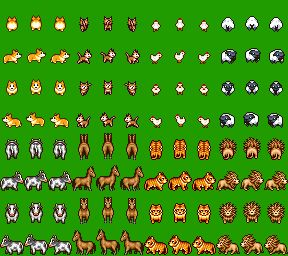
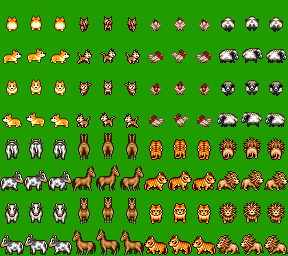
new animals

diff --git a/data/AUTHORS.md b/data/AUTHORS.md
@@ -30,148 +30,6 @@ Asset               |Year|Authors and License|Auth
 └  `Game Over.png` | 2020 | jetrotal [CC0], <br/>kou [CC-BY] (koubit_001 Font) | https://github.com/jetrotal, <br/>https://www.pentacom.jp/pentacom/bitfontmaker2/gallery/?id=265
 **📁 `Monster`**|  
 └  `Hornet.png` | 2018 | Orochii Zouveleki [CC-BY] | https://ragnarokrproject.com/
-**📁 `Music`**|  
-├  `2003Adventurers.mid` | 2022 | 魔王魂(Maoudamashii) [CC-BY] | https://maou.audio/rule/
-├  `2003Ancient City.mid` | 2022 | morusque [cc-by] | http://nurykabe.com/dump/sound/other/midi/
-├  `2003Battle with an Evil God.mid` | 2022 | 魔王魂(Maoudamashii) [CC-BY] | https://maou.audio/rule/
-├  `2003Beginning of a War.mid` | 2022 | 魔王魂(Maoudamashii) [CC-BY] | https://maou.audio/rule/
-├  `2003Casino Indulgence.mid` | 2022 | 魔王魂(Maoudamashii) [CC-BY] | https://maou.audio/rule/
-├  `2003Cathedral.mid` | 2022 | 魔王魂(Maoudamashii) [CC-BY] | https://maou.audio/rule/
-├  `2003Church.mid` | 2022 | 魔王魂(Maoudamashii) [CC-BY] | https://maou.audio/rule/
-├  `2003City Bustle.mid` | 2022 | 魔王魂(Maoudamashii) [CC-BY] | https://maou.audio/rule/
-├  `2003Colosseum.mid` | 2022 | 魔王魂(Maoudamashii) [CC-BY] | https://maou.audio/rule/
-├  `2003Creeping Darkness.mid` | 2022 | 魔王魂(Maoudamashii) [CC-BY] | https://maou.audio/rule/
-├  `2003Cyber City.mid` | 2022 | 魔王魂(Maoudamashii) [CC-BY] | https://maou.audio/rule/
-├  `2003DarkAltar.mid` | 2022 | 魔王魂(Maoudamashii) [CC-BY] | https://maou.audio/rule/
-├  `2003Deep Memory.mid` | 2022 | 魔王魂(Maoudamashii) [CC-BY] | https://maou.audio/rule/
-├  `2003Deserted Mansion.mid` | 2022 | morusque [cc-by] | http://nurykabe.com/dump/sound/other/midi/
-├  `2003Dream Forest.mid` | 2022 | morusque [cc-by] | http://nurykabe.com/dump/sound/other/midi/
-├  `2003Dream of Striking It Rich.mid` | 2022 | 魔王魂(Maoudamashii) [CC-BY] | https://maou.audio/rule/
-├  `2003Dreaminess.mid` | 2022 | 魔王魂(Maoudamashii) [CC-BY] | https://maou.audio/rule/
-├  `2003Empire.mid` | 2022 | 魔王魂(Maoudamashii) [CC-BY] | https://maou.audio/rule/
-├  `2003Exploring Ruins.mid` | 2022 | いのじゅん(junichiinoue) [CC-BY] | https://midisozai.inojun.net/
-├  `2003Fairy Forest.mid` | 2022 | いのじゅん(junichiinoue) [CC-BY] | https://midisozai.inojun.net/
-├  `2003Far Eastern Land.mid` | 2022 | 魔王魂(Maoudamashii) [CC-BY] | https://maou.audio/rule/
-├  `2003Final Battleground.mid` | 2022 | northivanastan [cc0] | https://opengameart.org/users/northivanastan
-├  `2003Free For All.mid` | 2022 | 魔王魂(Maoudamashii) [CC-BY] | https://maou.audio/rule/
-├  `2003Healing Spring.mid` | 2022 | 魔王魂(Maoudamashii) [CC-BY] | https://maou.audio/rule/
-├  `2003Hero's Return.mid` | 2022 | いのじゅん(junichiinoue) [CC-BY] | https://midisozai.inojun.net/
-├  `2003Ice Labyrinth.mid` | 2022 | 魔王魂(Maoudamashii) [CC-BY] | https://maou.audio/rule/
-├  `2003In the Eternal Flow of Time.mid` | 2022 | 魔王魂(Maoudamashii) [CC-BY] | https://maou.audio/rule/
-├  `2003Little Army's March.mid` | 2022 | いのじゅん(junichiinoue) [CC-BY] | https://midisozai.inojun.net/
-├  `2003Lonesome Journey.mid` | 2022 | morusque [cc-by] | http://nurykabe.com/dump/sound/other/midi/
-├  `2003Machine Fortress.mid` | 2022 | 魔王魂(Maoudamashii) [CC-BY] | https://maou.audio/rule/
-├  `2003Maximum Battle.mid` | 2022 | 魔王魂(Maoudamashii) [CC-BY] | https://maou.audio/rule/
-├  `2003Otherworldly Corridor.mid` | 2022 | 魔王魂(Maoudamashii) [CC-BY] | https://maou.audio/rule/
-├  `2003Palace Party.mid` | 2022 | いのじゅん(junichiinoue) [CC-BY] | https://midisozai.inojun.net/
-├  `2003Panic.mid` | 2022 | 魔王魂(Maoudamashii) [CC-BY] | https://maou.audio/rule/
-├  `2003Repeated Wars.mid` | 2022 | 魔王魂(Maoudamashii) [CC-BY] | https://maou.audio/rule/
-├  `2003Silence.mid` | 2022 | 魔王魂(Maoudamashii) [CC-BY] | https://maou.audio/rule/
-├  `2003Snow Town.mid` | 2022 | いのじゅん(junichiinoue) [CC-BY] | https://midisozai.inojun.net/
-├  `2003Sorrow.mid` | 2022 | いのじゅん(junichiinoue) [CC-BY] | https://midisozai.inojun.net/
-├  `2003Steady Breeze.mid` | 2022 | morusque [cc-by] | http://nurykabe.com/dump/sound/other/midi/
-├  `2003Subterranean Maze.mid` | 2022 | いのじゅん(junichiinoue) [CC-BY] | https://midisozai.inojun.net/
-├  `2003SunnyVillage.mid` | 2022 | いのじゅん(junichiinoue) [CC-BY] | https://midisozai.inojun.net/
-├  `2003Tavern.mid` | 2022 | 魔王魂(Maoudamashii) [CC-BY] | https://maou.audio/rule/
-├  `2003Tension.mid` | 2022 | 魔王魂(Maoudamashii) [CC-BY] | https://maou.audio/rule/
-├  `2003Village in the Valley.mid` | 2022 | いのじゅん(junichiinoue) [CC-BY] | https://midisozai.inojun.net/
-├  `2003Village of Savages.mid` | 2022 | いのじゅん(junichiinoue) [CC-BY] | https://midisozai.inojun.net/
-├  `2003Waltz of Blessings.mid` | 2022 | 魔王魂(Maoudamashii) [CC-BY] | https://maou.audio/rule/
-├  `2003Wings to the Sky.mid` | 2022 | 魔王魂(Maoudamashii) [CC-BY] | https://maou.audio/rule/
-├  `2003Young Memories.mid` | 2022 | 魔王魂(Maoudamashii) [CC-BY] | https://maou.audio/rule/
-├  `Animal.mid` | 2022 | 魔王魂(Maoudamashii) [CC-BY] | https://maou.audio/rule/
-├  `Battle 1.mid` | 2010 | Juan Manuel Nigretti [CC-BY] | https://soundcloud.com/goodgameaudio
-├  `Battle 2.mid` | 2022 | 魔王魂(Maoudamashii) [CC-BY] | https://maou.audio/rule/
-├  `Battle 3.mid` | 2022 | northivanastan [cc0] | https://opengameart.org/users/northivanastan
-├  `Black Market.mid` | 2022 | 魔王魂(Maoudamashii) [CC-BY] | https://maou.audio/rule/
-├  `Boss 1.mid` | 2022 | 魔王魂 [CC-BY] | https://maou.audio/rule/
-├  `Boss 2.mid` | 2022 | 魔王魂(Maoudamashii) [CC-BY] | https://maou.audio/rule/
-├  `Boss 3.mid` | 2022 | Someoneman [cc0] | https://github.com/Someoneman
-├  `Boss 4.mid` | 2022 | 魔王魂(Maoudamashii) [CC-BY] | https://maou.audio/rule/
-├  `Castle 1.mid` | 2010 | Juan Manuel Nigretti [CC-BY] | https://soundcloud.com/goodgameaudio
-├  `Castle 2.mid` | 2022 | 魔王魂(Maoudamashii) [CC-BY] | https://maou.audio/rule/
-├  `Castle 3.mid` | 2022 | 魔王魂(Maoudamashii) [CC-BY] | https://maou.audio/rule/
-├  `Church.mid` | 2010 | Juan Manuel Nigretti [CC-BY] | https://soundcloud.com/goodgameaudio
-├  `Defeat.mid` | 2022 | 魔王魂(Maoudamashii) [CC-BY] | https://maou.audio/rule/
-├  `Demon Lord.mid` | 2022 | 魔王魂(Maoudamashii) [CC-BY] | https://maou.audio/rule/
-├  `Dungeon 1.mid` | 2010 | Juan Manuel Nigretti [CC-BY] | https://soundcloud.com/goodgameaudio
-├  `Dungeon 2.mid` | 2022 | 魔王魂(Maoudamashii) [CC-BY] | https://maou.audio/rule/
-├  `Dungeon 3.mid` | 2022 | 魔王魂(Maoudamashii) [CC-BY] | https://maou.audio/rule/
-├  `Dungeon 4.mid` | 2022 | 魔王魂(Maoudamashii) [CC-BY] | https://maou.audio/rule/
-├  `Dungeon 5.mid` | 2022 | 魔王魂(Maoudamashii) [CC-BY] | https://maou.audio/rule/
-├  `Ending 1.mid` | 2022 | 魔王魂(Maoudamashii) [CC-BY] | https://maou.audio/rule/
-├  `Ending 2.mid` | 2010 | Juan Manuel Nigretti [CC-BY] | https://soundcloud.com/goodgameaudio
-├  `Ending 3.mid` | 2022 | 魔王魂(Maoudamashii) [CC-BY] | https://maou.audio/rule/
-├  `Exploration.mid` | 2022 | morusque [CC-BY] | http://nurykabe.com/dump/sound/other/midi/
-├  `Fairy 1.mid` | 2022 | morusque [CC-BY] | http://nurykabe.com/dump/sound/other/midi/
-├  `Fairy 2.mid` | 2022 | morusque [CC-BY] | http://nurykabe.com/dump/sound/other/midi/
-├  `Field 1.mid` | 2010 | Juan Manuel Nigretti [CC-BY] | https://soundcloud.com/goodgameaudio
-├  `Field 2.mid` | 2022 | 魔王魂(Maoudamashii) [CC-BY] | https://maou.audio/rule/
-├  `Field 3.mid` | 2022 | 魔王魂(Maoudamashii) [CC-BY] | https://maou.audio/rule/
-├  `Field 4.mid` | 2022 | 魔王魂(Maoudamashii) [CC-BY] | https://maou.audio/rule/
-├  `Game Over 1.mid` | 2010 | Juan Manuel Nigretti [CC-BY] | https://soundcloud.com/goodgameaudio
-├  `Game Over 2.mid` | 2022 | 魔王魂(Maoudamashii) [CC-BY] | https://maou.audio/rule/
-├  `Game Over 3.mid` | 2022 | 魔王魂(Maoudamashii) [CC-BY] | https://maou.audio/rule/
-├  `Ghost Town 1.mid` | 2022 | morusque [CC-BY] | http://nurykabe.com/dump/sound/other/midi/
-├  `Ghost Town 2.mid` | 2022 | morusque [CC-BY] | http://nurykabe.com/dump/sound/other/midi/
-├  `Hero 1.mid` | 2022 | 魔王魂(Maoudamashii) [CC-BY] | https://maou.audio/rule/
-├  `Hero 2.mid` | 2022 | 魔王魂(Maoudamashii) [CC-BY] | https://maou.audio/rule/
-├  `In a Pinch.mid` | 2022 | 魔王魂(Maoudamashii) [CC-BY] | https://maou.audio/rule/
-├  `J2003Horn.mid` | 2022 | 魔王魂(Maoudamashii) [CC-BY] | https://maou.audio/rule/
-├  `JDoubt.mid` | 2010 | Juan Manuel Nigretti [CC-BY] | https://soundcloud.com/goodgameaudio
-├  `JEnd of Battle 1.mid` | 2010 | Juan Manuel Nigretti [CC-BY] | https://soundcloud.com/goodgameaudio
-├  `JEnd of Battle 2.mid` | 2010 | Juan Manuel Nigretti [CC-BY] | https://soundcloud.com/goodgameaudio
-├  `JEnd of Battle 3.mid` | 2010 | Juan Manuel Nigretti [CC-BY] | https://soundcloud.com/goodgameaudio
-├  `JEnd of Battle 4.mid` | 2010 | Juan Manuel Nigretti [CC-BY] | https://soundcloud.com/goodgameaudio
-├  `JFanfare 1.mid` | 2010 | Juan Manuel Nigretti [CC-BY] | https://soundcloud.com/goodgameaudio
-├  `JFanfare 2.mid` | 2010 | Juan Manuel Nigretti [CC-BY] | https://soundcloud.com/goodgameaudio
-├  `JFanfare 3.mid` | 2010 |  Juan Manuel Nigretti [CC-BY] | https://soundcloud.com/goodgameaudio
-├  `JFanfare 4.mid` | 2010 |  Juan Manuel Nigretti [CC-BY] | https://soundcloud.com/goodgameaudio
-├  `JFanfare 5.mid` | 2010 |  Juan Manuel Nigretti [CC-BY] | https://soundcloud.com/goodgameaudio
-├  `JFanfare 6.mid` | 2010 |  Juan Manuel Nigretti [CC-BY] | https://soundcloud.com/goodgameaudio
-├  `JInn 1.mid` | 2010 |  Juan Manuel Nigretti [CC-BY] | https://soundcloud.com/goodgameaudio
-├  `JInn 2.mid` | 2010 |  Juan Manuel Nigretti [CC-BY] | https://soundcloud.com/goodgameaudio
-├  `JItem.mid` | 2010 | Juan Manuel Nigretti [CC-BY] | https://soundcloud.com/goodgameaudio
-├  `JJoke 1.mid` | 2010 |  Juan Manuel Nigretti [CC-BY] | https://soundcloud.com/goodgameaudio
-├  `JJoke 2.mid` | 2010 |  Juan Manuel Nigretti [CC-BY] | https://soundcloud.com/goodgameaudio
-├  `JMystery.mid` | 2010 |  Juan Manuel Nigretti [CC-BY] | https://soundcloud.com/goodgameaudio
-├  `Liveliness.mid` | 2022 | 魔王魂(Maoudamashii) [CC-BY] | https://maou.audio/rule/
-├  `Lively Market.mid` | 2022 | 魔王魂(Maoudamashii) [CC-BY] | https://maou.audio/rule/
-├  `Mystery 1.mid` | 2010 |  Juan Manuel Nigretti [CC-BY] | https://soundcloud.com/goodgameaudio
-├  `Mystery 2.mid` | 2022 | 魔王魂(Maoudamashii) [CC-BY] | https://maou.audio/rule/
-├  `Mystery 3.mid` | 2022 | morusque [CC-BY] | http://nurykabe.com/dump/sound/other/midi/
-├  `Opening 1.mid` | 2022 | 魔王魂(Maoudamashii) [CC-BY] | https://maou.audio/rule/
-├  `Opening 2.mid` | 2010 |  Juan Manuel Nigretti [CC-BY] | https://soundcloud.com/goodgameaudio
-├  `Opening 3.mid` | 2022 | 魔王魂(Maoudamashii) [CC-BY] | https://maou.audio/rule/
-├  `Parting 1.mid` | 2022 | morusque [CC-BY] | http://nurykabe.com/dump/sound/other/midi/
-├  `Parting 2.mid` | 2022 | 魔王魂(Maoudamashii) [CC-BY] | https://maou.audio/rule/
-├  `Repose 1.mid` | 2022 | 魔王魂(Maoudamashii) [CC-BY] | https://maou.audio/rule/
-├  `Repose 2.mid` | 2022 | 魔王魂(Maoudamashii) [CC-BY] | https://maou.audio/rule/
-├  `Repose 3.mid` | 2022 | 魔王魂(Maoudamashii) [CC-BY] | https://maou.audio/rule/
-├  `Secret Treasure.mid` | 2022 | 魔王魂(Maoudamashii) [CC-BY] | https://maou.audio/rule/
-├  `Ship 1.mid` | 2022 | 魔王魂(Maoudamashii) [CC-BY] | https://maou.audio/rule/
-├  `Ship 2.mid` | 2022 | 魔王魂(Maoudamashii) [CC-BY] | https://maou.audio/rule/
-├  `Ship 3.mid` | 2022 | 魔王魂(Maoudamashii) [CC-BY] | https://maou.audio/rule/
-├  `Shop 1.mid` | 2022 | 魔王魂(Maoudamashii) [CC-BY] | https://maou.audio/rule/
-├  `Shop 2.mid` | 2022 | 魔王魂(Maoudamashii) [CC-BY] | https://maou.audio/rule/
-├  `Shop 3.mid` | 2022 | 魔王魂(Maoudamashii) [CC-BY] | https://maou.audio/rule/
-├  `Sorrow.mid` | 2010 |  Juan Manuel Nigretti [CC-BY] | https://soundcloud.com/goodgameaudio
-├  `Thief.mid` | 2022 | 魔王魂(Maoudamashii) [CC-BY] | https://maou.audio/rule/
-├  `Tower 1.mid` | 2022 | 魔王魂(Maoudamashii) [CC-BY] | https://maou.audio/rule/
-├  `Tower 2.mid` | 2022 | 魔王魂(Maoudamashii) [CC-BY] | https://maou.audio/rule/
-├  `Tower 3.mid` | 2022 | 魔王魂(Maoudamashii) [CC-BY] | https://maou.audio/rule/
-├  `Town 1.mid` | 2010 |  Juan Manuel Nigretti [CC-BY] | https://soundcloud.com/goodgameaudio
-├  `Town 2.mid` | 2022 | 魔王魂(Maoudamashii) [CC-BY] | https://maou.audio/rule/
-├  `Town 3.mid` | 2022 | 魔王魂(Maoudamashii) [CC-BY] | https://maou.audio/rule/
-├  `Trial.mid` | 2022 | 魔王魂(Maoudamashii) [CC-BY] | https://maou.audio/rule/
-├  `Vehicle 1.mid` | 2010 |  Juan Manuel Nigretti [CC-BY] | https://soundcloud.com/goodgameaudio
-├  `Vehicle 2.mid` | 2022 | 魔王魂(Maoudamashii) [CC-BY] | https://maou.audio/rule/
-├  `Vehicle 3.mid` | 2022 | 魔王魂(Maoudamashii) [CC-BY] | https://maou.audio/rule/
-├  `Victory.mid` | 2022 | 魔王魂(Maoudamashii) [CC-BY] | https://maou.audio/rule/
-├  `Village 1.mid` | 2022 | 魔王魂(Maoudamashii) [CC-BY] | https://maou.audio/rule/
-├  `Village 2.mid` | 2022 | いのじゅん(junichiinoue) [CC-BY] | https://midisozai.inojun.net/
-├  `Village 3.mid` | 2022 | 魔王魂(Maoudamashii) [CC-BY] | https://maou.audio/rule/
-└  `Wrath.mid` | 2022 | 魔王魂(Maoudamashii) [CC-BY] | https://maou.audio/rule/
 **📁 `Panorama`**|  
 ├  `Cosmos1.png` | 2015 |  Tom Lemmens [CC-BY] [OGA-BY] | https://github.com/lemtom
 ├  `Dawn1.png` | 2015 |  Tom Lemmens [CC-BY] [OGA-BY] | https://github.com/lemtom
